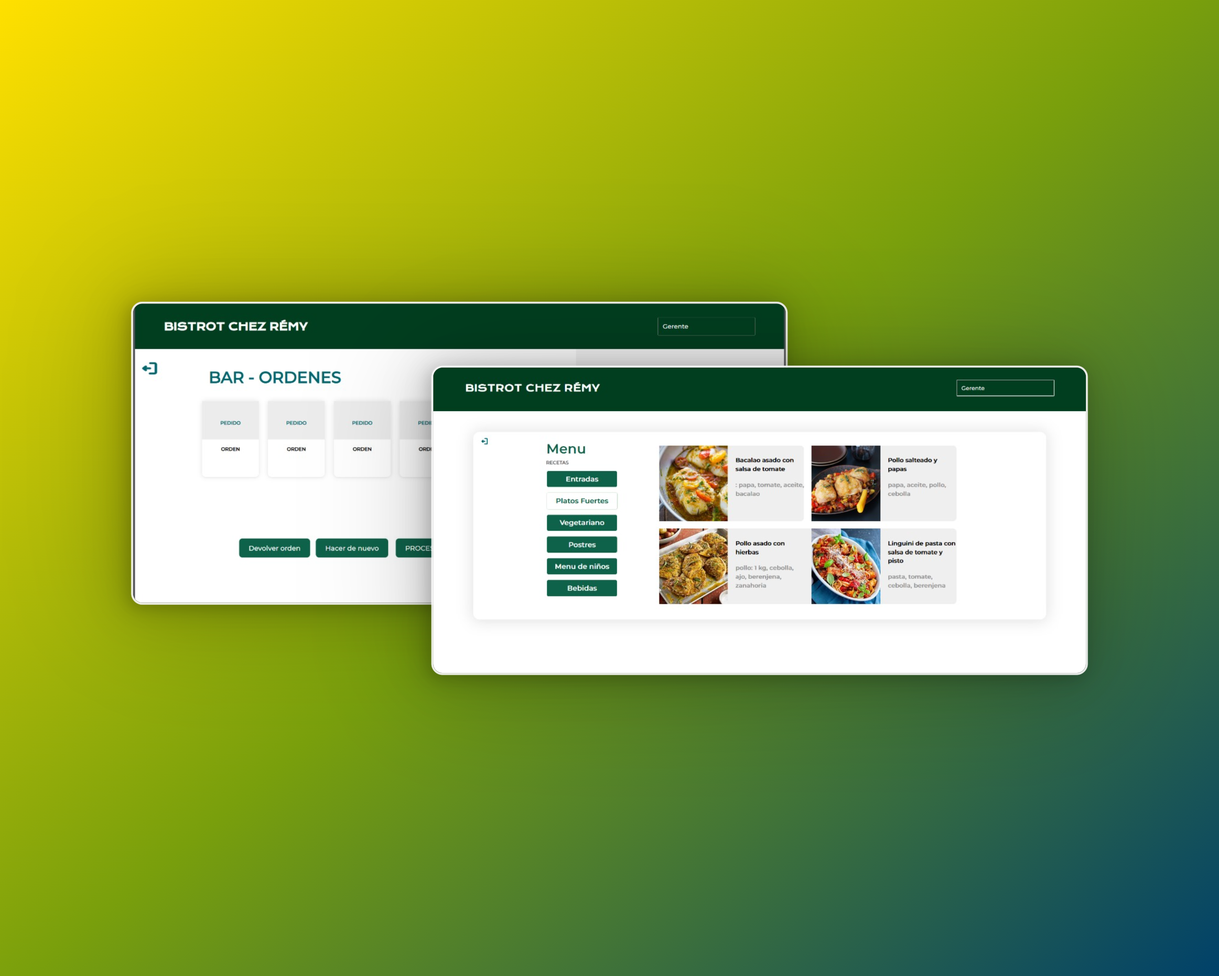
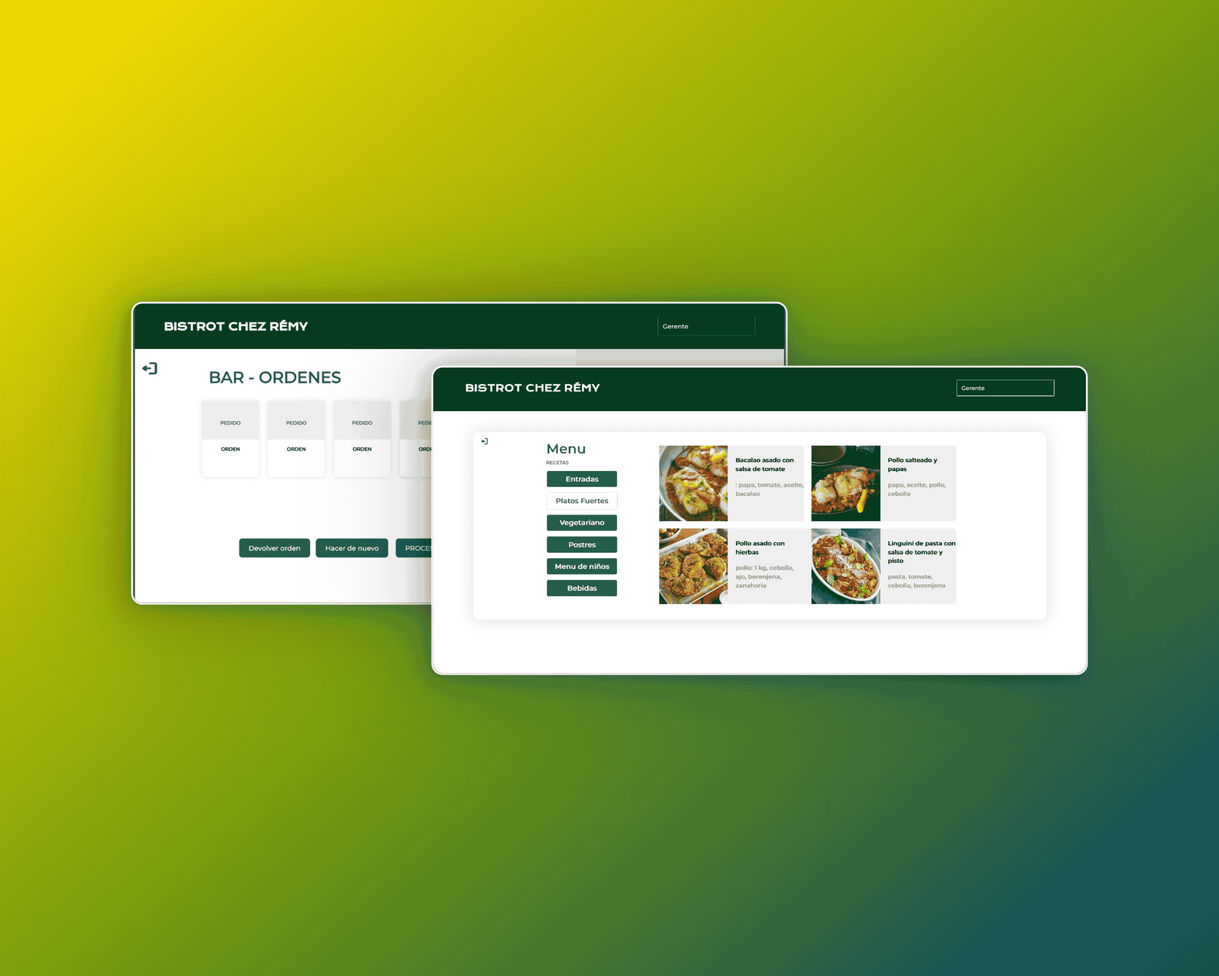
cv bug solved, images comprimed and new aspect ratio

diff --git a/src/components/Resume/ResumeNew.js b/src/components/Resume/ResumeNew.js
@@ -1,10 +1,8 @@
-import React from "react";
+import React, { useState, useEffect } from "react";
 import { Container, Row, Button } from "react-bootstrap";
 import Particle from "../Particle";
 import pdf from "../../Assets/CV - Angelo Polgrossi - English.pdf";
 import { AiOutlineDownload } from "react-icons/ai";
-import "@react-pdf-viewer/core/lib/styles/index.css";
-import "@react-pdf-viewer/default-layout/lib/styles/index.css";
 
 function ResumeNew() {
   return (
@@ -23,7 +21,17 @@ function ResumeNew() {
           </Button>
         </Row>
 
-        <br></br>
+        <div className="container">
+          <Row className="resume" style={{ position: "relative" }}>
+            <iframe
+              src={pdf}
+              title="CV - Angelo Polgrossi"
+              width="100%"
+              height="800px"
+              style={{ border: "none" }}
+            ></iframe>
+          </Row>
+        </div>
 
         <Row style={{ justifyContent: "center", position: "relative" }}>
           <Button

diff --git a/src/style.css b/src/style.css
@@ -488,6 +488,23 @@ button:focus {
   box-shadow: 0 3px 3px 5px #065c1a !important;
 }
 
+.card-img-container {
+  position: relative;
+  width: 100%;
+  aspect-ratio: 16 / 12; /* Adjust the ratio as needed */
+  background-color: #f0f0f0; /* Placeholder color while the image loads */
+  overflow: hidden;
+}
+
+.card-img-container img {
+  position: absolute;
+  top: 0;
+  left: 0;
+  width: 100%;
+  height: 100%;
+  object-fit: cover; /* Ensures the image scales properly */
+}
+
 .card-img-top {
   padding: 20px !important;
   opacity: 0.8 !important;
@@ -594,6 +611,7 @@ button:focus {
 .resume {
   padding-top: 50px;
   padding-bottom: 50px;
+  display: flex;
   justify-content: center;
 }
 

diff --git a/src/components/Projects/ProjectCards.js b/src/components/Projects/ProjectCards.js
@@ -7,7 +7,9 @@ import { BsGithub } from "react-icons/bs";
 function ProjectCards(props) {
   return (
     <Card className="project-card-view">
-      <Card.Img src={props.imgPath} alt="card-img" />
+      <div className="card-img-container">
+        <Card.Img src={props.imgPath} alt="card-img" />
+      </div>
       <Card.Body>
         <Card.Title>{props.title}</Card.Title>
         <Card.Text style={{ textAlign: "justify" }}>
